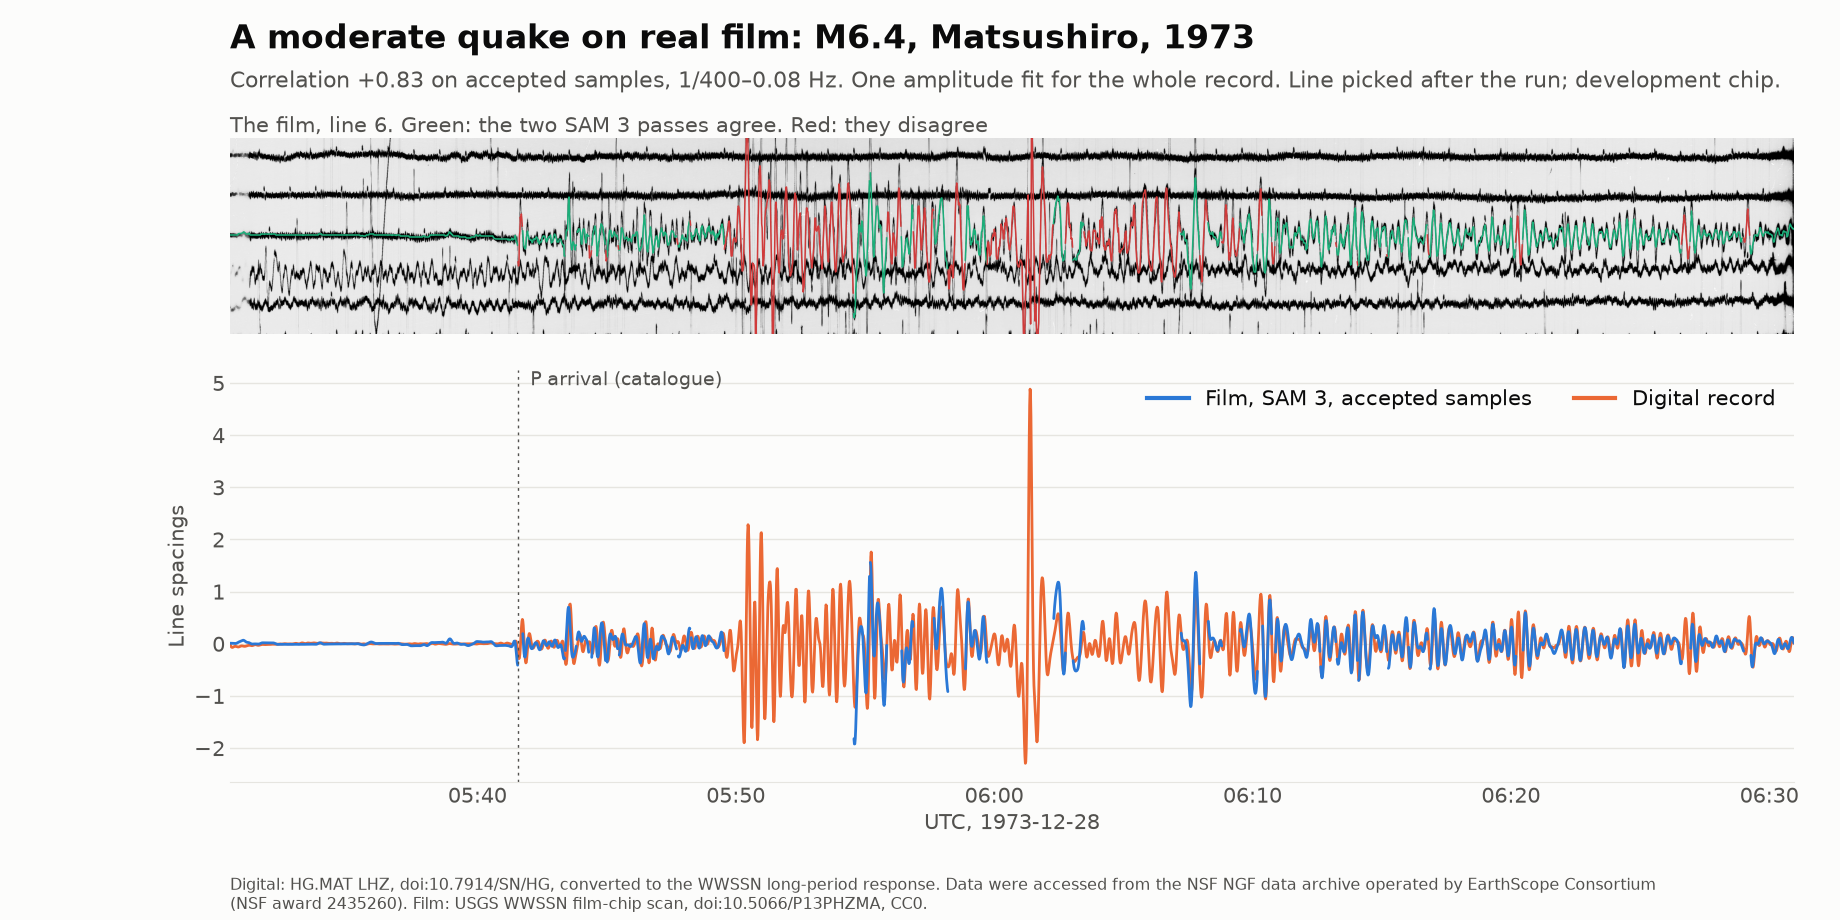
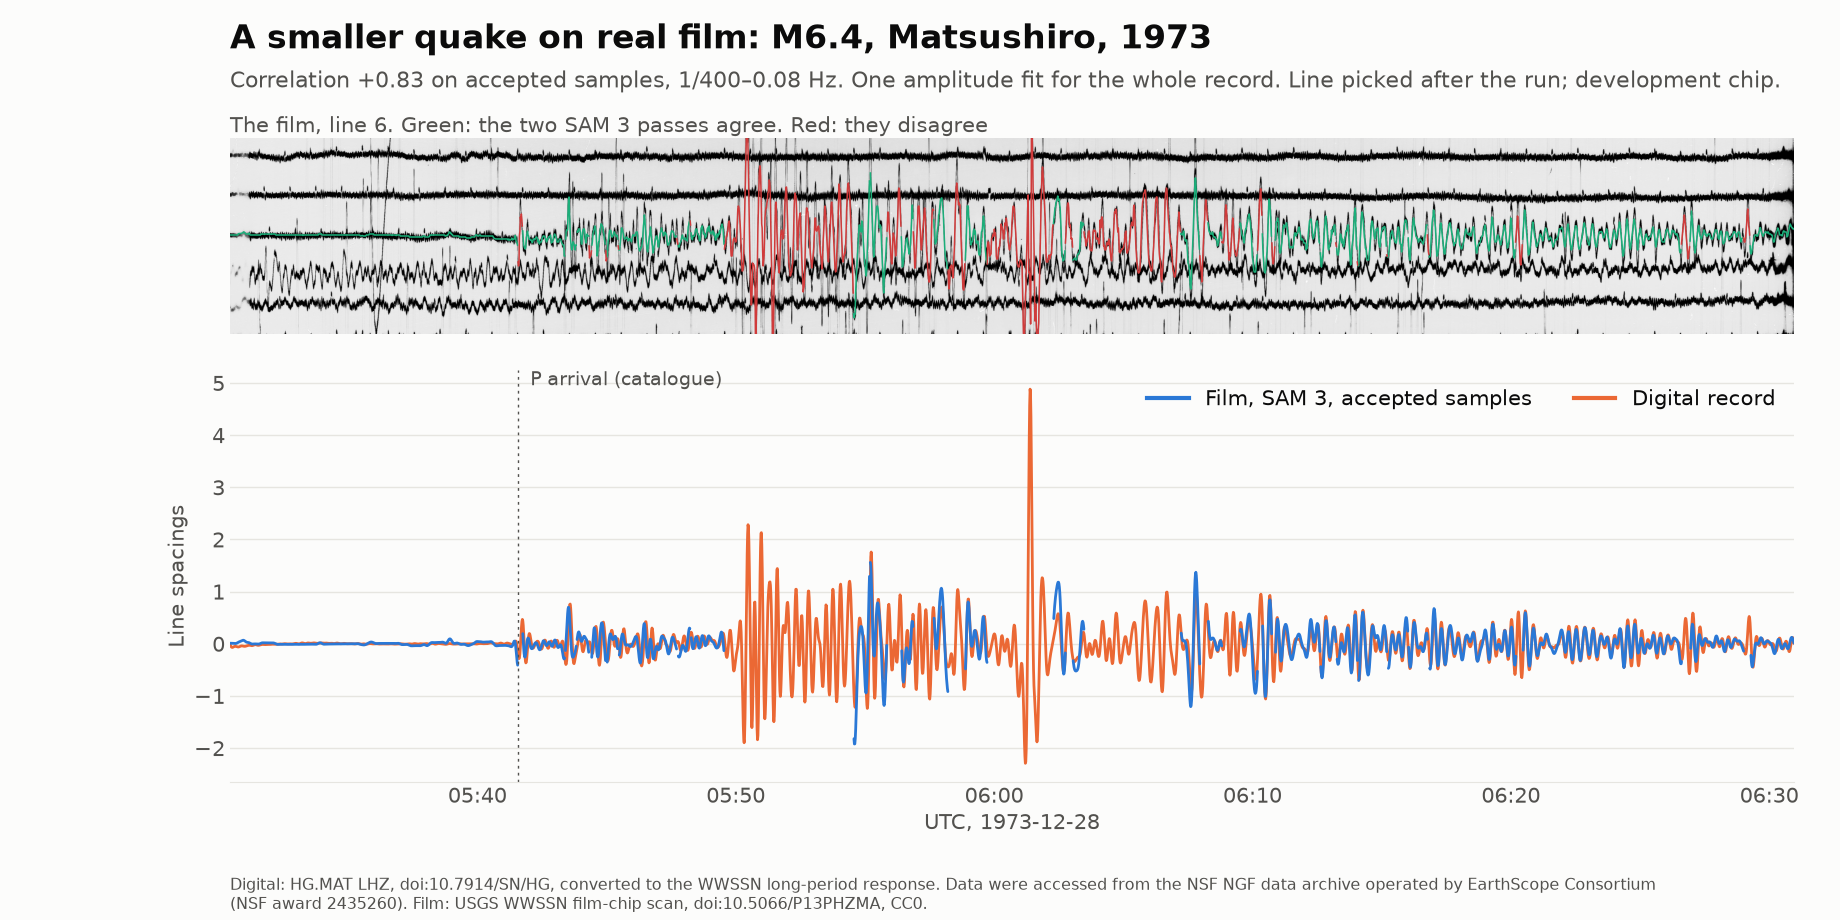
Correct magnitude terms, the chip count source and how film chips were made
M7.5 and M7.6 are major quakes on the USGS scale, not great ones, and M6.4 and
Ms 6.3 are not moderate. Stations recorded on photographic paper; film chips are
later copies. The count of about 189,000 comes from a 2019 USGS page and ASL's
notes, not the release page. No number changes. Adds the script for the line 6
figure, whose title used the old term.

Changed region(s): [[0.1239, 0.0, 0.6815, 0.0609]]

diff --git a/scripts/fig_mat6.py b/scripts/fig_mat6.py
@@ -1,0 +1,77 @@
+"""Draw docs/img/mat_line6.png: MAT line 6, film crop, then SAM 3 accepted samples vs the digital record.
+
+Reads only. Needs the digital record HG.MAT (see data/README.md, it is not shipped) and the stored
+real-film evaluation under out/. Usage, from the repository root: python scripts/fig_mat6.py out/mat_line6.png
+"""
+import os, sys
+os.environ.setdefault("SEISMO_FLAT_RULE", "fb")
+os.environ["CUDA_VISIBLE_DEVICES"] = ""
+sys.path.insert(0, "scripts")
+import numpy as np, cv2
+import matplotlib
+matplotlib.use("Agg")
+import matplotlib.pyplot as plt
+from matplotlib.lines import Line2D
+import flat_baseline as flb
+from pathlib import Path
+
+f = flb.real_frame("MAT", "real_{}_paths.npz")
+rpe, k = f["rpe"], 6
+idx, y, m = flb.line_samples(f, k)
+ref = f["ref"]
+dev = -(y - f["bases"][k]) * f["al"]["sign"]
+db, rb = rpe.bandpass(dev), rpe.bandpass(ref[idx])
+r = rpe.pearson(db[m], rb[m])
+print("r accepted", round(float(r), 3), "n", idx.size, "acc", round(float(m.mean()), 3), "a_glob", f["a_glob"], "sign", f["al"]["sign"])
+S = f["S"]
+t_h = (f["t_ref"][idx] + 20 * 60) / 3600.0        # t_ref is seconds after the film's ON time, 00:20:00
+film = np.where(m, db / S, np.nan)
+digi = f["a_glob"] * rb / S
+BLUE, ORANGE, INK, MUTED, GRID, SURF = "#2a78d6", "#eb6834", "#0b0b0b", "#52514e", "#e6e5e0", "#fcfcfb"
+plt.rcParams.update({"font.size": 15, "axes.edgecolor": GRID, "text.color": INK, "axes.labelcolor": MUTED, "xtick.color": MUTED, "ytick.color": MUTED})
+
+# film crop in the evaluation frame
+img = cv2.imread(str(flb.ROOT / "out/real_paired/MAT/MAT_rescaled.png"), 0)
+x0, x1, base = f["x0"], f["x1"], float(f["bases"][k])
+P = f["P1"][k]
+pad = int(2.6 * S)
+top, bot = int(base - pad), int(base + pad)
+crop = img[top:bot, x0:x1]
+
+fig, (a0, a1) = plt.subplots(2, 1, figsize=(18.4, 9.2), dpi=100, gridspec_kw={"height_ratios": [1, 2.1], "hspace": 0.12}, facecolor=SURF)
+a0.imshow(crop, cmap="gray", aspect="auto", extent=[x0, x1, bot, top], vmin=0, vmax=255)
+xs = np.arange(x0, x1)
+acc = f["acc"][k]
+pa = np.where(acc, P[x0:x1], np.nan)
+pf = np.where(~acc, P[x0:x1], np.nan)
+a0.plot(xs, pa, color="#1baf7a", lw=1.1)
+a0.plot(xs, pf, color="#d03b3b", lw=1.1)
+a0.set_ylim(bot, top); a0.set_xlim(x0, x1); a0.set_xticks([]); a0.set_yticks([])
+for sp in a0.spines.values():
+    sp.set_visible(False)
+a0.text(0.0, 1.03, "The film, line 6. Green: the two SAM 3 passes agree. Red: they disagree", transform=a0.transAxes, color=MUTED, fontsize=15)
+
+a1.plot(t_h, digi, color=ORANGE, lw=2, solid_capstyle="round", label="Digital record")
+a1.plot(t_h, film, color=BLUE, lw=2, solid_capstyle="round", label="Film, SAM 3, accepted samples")
+a1.grid(axis="y", color=GRID, lw=1); a1.set_axisbelow(True)
+for s in ("top", "right", "left"):
+    a1.spines[s].set_visible(False)
+a1.tick_params(length=0)
+a1.set_facecolor(SURF)
+a1.set_ylabel("Line spacings")
+tk = np.arange(np.ceil(t_h[0] * 6) / 6, t_h[-1], 1 / 6)
+a1.set_xticks(tk); a1.set_xticklabels([f"{int(t):02d}:{int(round((t % 1) * 60)) % 60:02d}" for t in tk])
+a1.set_xlim(t_h[0], t_h[-1])
+a1.set_xlabel("UTC, 1973-12-28")
+p_h = 5 + 41 / 60 + 35 / 3600
+a1.axvline(p_h, color=MUTED, lw=1, ls=(0, (2, 3)))
+yl = a1.get_ylim()
+a1.text(p_h, yl[1], "  P arrival (catalogue)", color=MUTED, va="top", fontsize=14)
+a1.legend(handles=[Line2D([], [], color=BLUE, lw=3, label="Film, SAM 3, accepted samples"), Line2D([], [], color=ORANGE, lw=3, label="Digital record")], loc="upper right", frameon=False, ncol=2)
+fig.suptitle("A smaller quake on real film: M6.4, Matsushiro, 1973", x=0.125, y=0.975, ha="left", fontsize=24, fontweight="bold")
+fig.text(0.125, 0.905, f"Correlation {r:+.2f} on accepted samples, 1/400–0.08 Hz. One amplitude fit for the whole record. Line picked after the run; development chip.", fontsize=16, color=MUTED)
+fig.text(0.125, 0.012, "Digital: HG.MAT LHZ, doi:10.7914/SN/HG, converted to the WWSSN long-period response. Data were accessed from the NSF NGF data archive operated by EarthScope Consortium\n(NSF award 2435260). Film: USGS WWSSN film-chip scan, doi:10.5066/P13PHZMA, CC0.", fontsize=11.5, color=MUTED)
+fig.subplots_adjust(top=0.85, bottom=0.15, left=0.125, right=0.975)
+out = Path(sys.argv[1]); out.parent.mkdir(parents=True, exist_ok=True)
+fig.savefig(out, facecolor=SURF)
+print("saved", out)

diff --git a/README.md b/README.md
@@ -51,7 +51,7 @@ You should see `accepted 76.1% of trace columns`, then `65401 of 86050 s exporte
 
 ## In one paragraph
 
-From 1962 to 1978 the World-Wide Standardized Seismograph Network (WWSSN) recorded the world's earthquakes on photographic film. The USGS released the film-chip scans under CC0 in 2025. Turning a chip back into data fails exactly where it matters: the earthquake trace swings across its neighbours and crosses them hundreds of times. SeismoRescue takes one public chip and returns files: a record sheet (station, start time, the earthquake and the line it should be on), a miniSEED waveform that keeps only the spans where two passes of the tracer agree, and a review list for the rest. **Meta's SAM 3, fine-tuned by us**, traces every line from both ends and re-traces a span when a person clicks on the right stroke. **Muse Spark** reads the printed film border and calls deterministic tools. **Muse Glimmer**, Meta's open-weight model, does the same reading on our own GPU, so scans that must stay private never leave the machine. Every model called at runtime is a Meta model. The tangled earthquake line is still mostly human work. On 10 unseen earthquakes (synthetic film), accepted earthquake-line columns were within ¼ line spacing 94.2% of the time, against 72.5% for a flat line on the same columns. On real film the accepted path follows the digital record's shape on two moderate quakes (r +0.91, +0.83). On the two great quakes it does not: almost nothing is accepted on one, and on the other the accepted half scores no better than a flat line. That part goes to a person.
+From 1962 to 1978 the World-Wide Standardized Seismograph Network (WWSSN) recorded the world's earthquakes on photographic paper, later copied to film chips. The USGS released the film-chip scans under CC0 in 2025. Turning a chip back into data fails exactly where it matters: the earthquake trace swings across its neighbours and crosses them hundreds of times. SeismoRescue takes one public chip and returns files: a record sheet (station, start time, the earthquake and the line it should be on), a miniSEED waveform that keeps only the spans where two passes of the tracer agree, and a review list for the rest. **Meta's SAM 3, fine-tuned by us**, traces every line from both ends and re-traces a span when a person clicks on the right stroke. **Muse Spark** reads the printed film border and calls deterministic tools. **Muse Glimmer**, Meta's open-weight model, does the same reading on our own GPU, so scans that must stay private never leave the machine. Every model called at runtime is a Meta model. The tangled earthquake line is still mostly human work. On 10 unseen earthquakes (synthetic film), accepted earthquake-line columns were within ¼ line spacing 94.2% of the time, against 72.5% for a flat line on the same columns. On real film the accepted path follows the digital record's shape on two smaller quakes (r +0.91, +0.83). On the two major quakes it does not: almost nothing is accepted on one, and on the other the accepted half scores no better than a flat line. That part goes to a person.
 
 ## At a glance
 
@@ -60,8 +60,8 @@ From 1962 to 1978 the World-Wide Standardized Seismograph Network (WWSSN) record
 | Earthquake line, auto-accepted columns | **94.2%** within ¼ line spacing (a flat line on the same columns: 72.5%); 87.9% of columns kept | 10 unseen quakes, 95 synthetic films | test |
 | Earthquake line, columns where the pen really moved | within ¼ spacing: SAM 3 forward alone 67.2%, accepted by the rule **80.6%**, on 70.8% of those columns (a flat line: 0% by definition) | same | test |
 | All lines, auto-accepted columns | **97.9%** within ¼ spacing (flat line: 93.6%), **99.2%** without the minute marks, which the export bridges anyway (flat line: 95.3%); 93.9% kept | same | test |
-| Real film, two moderate quakes | accepted-span r **+0.91** (ALQ 1975, Ms 6.3), **+0.83** (MAT 1973, M6.4, line picked after the fact) against the digital record | 2 chips | descriptive |
-| Real film, two great quakes | MAT, M7.5: almost none of the earthquake line accepted. KIP, M7.6: 50% accepted, r −0.22, and a flat line scores better there. This is human work | 2 chips | descriptive |
+| Real film, two smaller quakes | accepted-span r **+0.91** (ALQ 1975, Ms 6.3), **+0.83** (MAT 1973, M6.4, line picked after the fact) against the digital record | 2 chips | descriptive |
+| Real film, two major quakes | MAT, M7.5: almost none of the earthquake line accepted. KIP, M7.6: 50% accepted, r −0.22, and a flat line scores better there. This is human work | 2 chips | descriptive |
 | Border reading, Spark + table | **16/20** chips right against the archive's file names. On the other 4 the agent matches the chip itself, checked by eye after the test | 20 new public chips | test |
 | 300 new public chips, unattended | The agent finished **297/300**. On at least **32** the file name differs from what the chip prints. L0 gave a time model on 164/297; its accuracy is not measured here | 300 new public chips | one pre-registered run, no truth for times |
 | Glimmer on our GPU vs Spark | 24/30 vs 25/30 chips right | 30 public chips | descriptive |
@@ -73,7 +73,7 @@ From 1962 to 1978 the World-Wide Standardized Seismograph Network (WWSSN) record
 ## The problem
 
 - A WWSSN long-period chip holds about one day of ground motion: one line per hour (3588–3589 s on real film), about 24 lines, with a tick every minute.
-- Quiet lines are easy. The earthquake line is not. On the two great quakes (MAT, KIP) its swing is 4.8–8.7 line spacings, so it crosses its neighbours again and again, and its steep strokes fade.
+- Quiet lines are easy. The earthquake line is not. On the two major quakes (MAT, KIP) its swing is 4.8–8.7 line spacings, so it crosses its neighbours again and again, and its steep strokes fade.
 - Every line looks the same. Which stroke belongs to which line at a crossing has to come from context.
 
 <p align="center">
@@ -206,7 +206,7 @@ We scored the frozen system on three real chips that have a digital station at t
 | ALQ, other active lines | 66% | +0.66 / +0.04 | 0% / 42% | 1% / 3% | 91% / 22% | 83% / 78% |
 | ALQ, quiet lines | 93% | +0.11 / −0.07 | 0% / 0% | 0% / 0% | 100% / 75% | 100% / 100% |
 
-- **On the two great quakes we do not have a waveform.** On MAT the two passes disagree along almost the whole earthquake line, so almost none of it is accepted (0.0% in this frame, 0.7% in the product run). On KIP half of it is accepted, mostly where the ground barely moved: the digital record's median motion is 0.03 S on accepted samples and 0.90 S on flagged ones. There r is −0.22 and a flat line scores better (within 0.1 S: 89% vs 29%). So the gap between accepted and flagged says where the ground moved, not that the tracer read it.
+- **On the two major quakes we do not have a waveform.** On MAT the two passes disagree along almost the whole earthquake line, so almost none of it is accepted (0.0% in this frame, 0.7% in the product run). On KIP half of it is accepted, mostly where the ground barely moved: the digital record's median motion is 0.03 S on accepted samples and 0.90 S on flagged ones. There r is −0.22 and a flat line scores better (within 0.1 S: 89% vs 29%). So the gap between accepted and flagged says where the ground moved, not that the tracer read it.
 - **On ALQ, a smaller and less tangled quake, SAM 3 beats the flat line and follows the long-period shape, but not the full amplitude:** r +0.75 on the whole line, +0.91 where accepted, on a chip not used to build the model or the rule. Time alignment and sign were fitted to this same digital record with a classical tracker, not SAM 3; leaving the earthquake line and the lines next to it out of that fit gives r +0.76. Circular shifts and phase scrambles reach at most 0.30, and a side peak of the lag scan reaches 0.47. Limits: one chip, a small event, amplitude slope 0.55, and other chips from this station were used to calibrate the renderer.
 - **On MAT, a smaller quake on the same chip (M6.4, line 6) gives r +0.83 on accepted samples** (+0.68 on the whole line, 73% accepted). We picked this line after the run, because it holds that quake, and MAT is a development chip. We then tried to break it, with pass rules written down first, and it held: the best lag within ±600 s is +1 s (r +0.85; at most 0.31 beyond ±30 s), 1,500 circular shifts of at least 600 s reach at most 0.19, 2,000 phase scrambles at most 0.23, the reference of any other line at most 0.06. In 600 s windows, r is −0.27 before the quake, +0.42 in the window where the P wave arrives, and +0.94, +0.89 during it. Lines 18 and 17 score about the same (+0.83, +0.79), so this is not a lone peak.
 - **SAM 3 can slip onto another line and stay there** (three lines on ALQ). The backward pass disagreed each time, and the rule refused them (almost none accepted). The S/2 and 0.1 S columns remove a per-line offset and trend, so a path that stays on the wrong line can still score well, and a partial slip can make good samples look bad. r helps only on lines with signal. We saw the same pattern on MAT and KIP but have not confirmed it there.
@@ -215,7 +215,7 @@ We scored the frozen system on three real chips that have a digital station at t
 <p align="center">
   <img src="docs/img/mat_line6.png" width="900" alt="MAT line 6: the film with accepted spans in green and flagged spans in red, above the accepted SAM 3 samples plotted over the digital record on one time axis; the largest swings are flagged">
 </p>
-<p align="center"><sub>MAT line 6 (M6.4), after the run. The accepted samples follow the digital record, and the largest swings are flagged, so they have no film trace here.</sub></p>
+<p align="center"><sub>MAT line 6 (M6.4), after the run. The accepted samples follow the digital record, and the largest swings are flagged, so they have no film trace here. Drawn by <code>scripts/fig_mat6.py</code>.</sub></p>
 
 <p align="center">
   <img src="docs/img/mat_quake_line.png" width="900" alt="Zoom on the MAT earthquake line: green accepted, red flagged for review">
@@ -314,9 +314,9 @@ We publish the tracing task as a benchmark: 285 synthetic film images with exact
 
 ## Limits
 
-- **The tangled earthquake line of a great quake is still mostly human work.** On MAT almost none of it is accepted. On KIP half is, where the ground barely moved, and those spans score no better than a flat line (r −0.22). SAM 3's earthquake-line r is 0.21 (KIP, M7.6) and 0.02 (MAT, M7.5); chance is about 0.06. The +0.75 on ALQ is one smaller quake (Ms 6.3), and its amplitude is low (slope 0.55).
+- **The tangled earthquake line of a major quake is still mostly human work.** On MAT almost none of it is accepted. On KIP half is, where the ground barely moved, and those spans score no better than a flat line (r −0.22). SAM 3's earthquake-line r is 0.21 (KIP, M7.6) and 0.02 (MAT, M7.5); chance is about 0.06. The +0.75 on ALQ is one smaller quake (Ms 6.3), and its amplitude is low (slope 0.55).
 - **The click does not fix everything.** On the synthetic development set, accepting every re-track blindly would cut earthquake-line precision from 94.2% to 87.3% (flat line: 72.7% to 66.0%), and on those columns the re-track (48.0%) is about as good as the backward pass alone (47.2%).
-- **Supported chips: WWSSN long-period film with one line per hour.** That is not the whole CC0 archive of about 189,000 chips. On 300 new chips, L0 found that format on 167 of 297.
+- **Supported chips: WWSSN long-period film with one line per hour.** That is not the whole scanned collection of about 189,000 chips. On 300 new chips, L0 found that format on 167 of 297.
 - **L0's automatic mode first failed on the ALQ 1975 chip:** it read the mid-grey paper as a negative. We fixed the polarity test during development, so the chip now completes unattended, with all 25 lines and time within 4.0 s of the fitted alignment (median −1.4 s). That is a regression check on a development chip, not a test. The real-film table above used the area and polarity given by hand. On 300 new chips the same test read 4 chips as negatives, and all 4 are positives.
 - **Paths depend on the crop.** A small change in area or layout makes SAM 3 slip on different lines. On MAT the product run and the evaluation frame differ this way: line 18 is 0.0% accepted in one and 98.4% in the other, because their layouts differ. The real-film table uses the evaluation frame, the overlay at the top the product run.
 - **Precision is measured on synthetic film.** Real-film precision is unknown. Both passes are one model that learned from synthetic film, so they can agree and still be wrong.

diff --git a/results/OTHER_NUMBERS.md b/results/OTHER_NUMBERS.md
@@ -21,7 +21,7 @@ Most numbers in the README can be traced to a file under `results/`, `examples/`
 | About $15, about $0.60 | Modal cost of all SAM 3 runs, and of the QLoRA pilot | `modal billing summary` before and after |
 | 143 s, 9.5 min | An earlier version of step 1, one SAM 3 pass, on the RTX 5070 Ti and on an Apple-silicon laptop (567 s) | Timed runs |
 | About 4–5 s | One re-track on the laptop's Apple GPU, on the review page | Timed clicks, not an evaluation |
-| About 189,000 | Chips in the CC0 release, as its USGS page states | Not counted by us |
+| About 189,000 | Film chips in the scanned selection: 189,180 on a [2019 USGS page](https://www.usgs.gov/programs/earthquake-hazards/science/preserving-historic-earthquake-records-and-photos-instruments) and in [ASL's notes](https://lsd-sphinx.readthedocs.io/en/latest/find_data/organizations/wwssn.html). That USGS page gives 3.7 million chips for the whole collection and calls the selection 5% of it. The [release page](https://www.usgs.gov/data/world-wide-standardized-seismographic-network-film-chip-scans) words it differently and gives no chip count | Not counted by us |
 | All 4 are positives | The 4 of 300 new chips that L0 read as negatives | Looked at by eye, not scripted |
 
 Two stored medians differ from the README. `seconds_median` in `results/e7/e7_results.json` is 118.5 and `secs_median` in the Glimmer results is 134.5, because those fields take the upper of the two middle rows. The README gives the true medians, 117 s (116.7) and 134 s (133.85).
